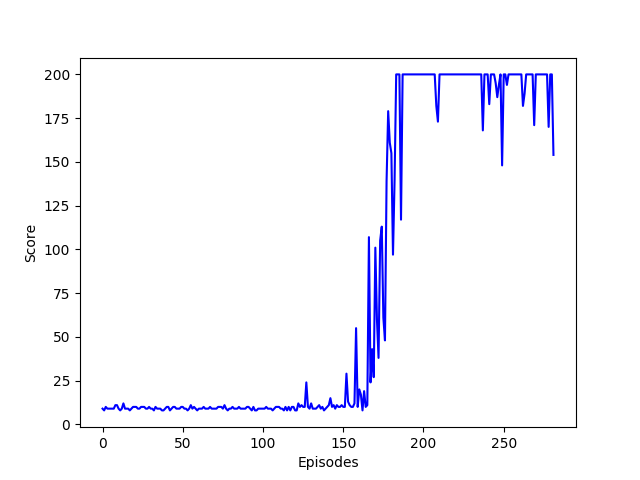
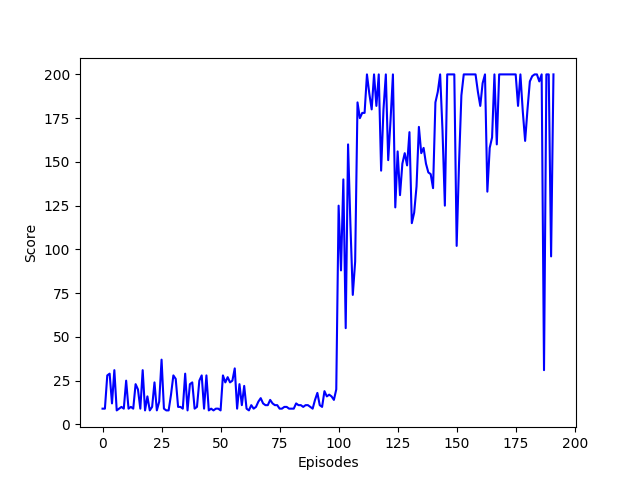
added configuration for hyperparameter search

diff --git a/Lab2/cartpole/cartpole_dqn.py b/Lab2/cartpole/cartpole_dqn.py
@@ -10,17 +10,25 @@ from keras.models import Sequential
 
 EPISODES = 1000 #Maximum number of episodes
 
+DEFAULT_TOPO = [16]
+TEST_TOPO = [
+    [16],
+    [32],
+    [64],
+             ]
+
 #DQN Agent for the Cartpole
 #Q function approximation with NN, experience replay, and target network
 class DQNAgent:
     #Constructor for the agent (invoked when DQN is first called in main)
-    def __init__(self, state_size, action_size):
-        self.check_solve = True	#If True, stop if you satisfy solution confition
+    def __init__(self, state_size, action_size, topo=DEFAULT_TOPO):
+        self.check_solve = False	#If True, stop if you satisfy solution confition
         self.render = False        #If you want to see Cartpole learning, then change to True
 
         #Get size of state and action
         self.state_size = state_size
         self.action_size = action_size
+        self.topo = topo
 
 
         # TODO Set hyper parameters for the DQN. Do not adjust those labeled as Fixed.
@@ -54,10 +62,15 @@ class DQNAgent:
         #Tip: Consult https://keras.io/getting-started/sequential-model-guide/
     def build_model(self):
         model = Sequential()
-        model.add(Dense(24, input_dim=self.state_size, activation='relu',
+        model.add(Dense(self.topo[0], input_dim=self.state_size, activation='relu',
                         kernel_initializer='he_uniform'))
-        model.add(Dense(16, activation='linear',
-                        kernel_initializer='he_uniform'))
+
+        if len(self.topo) > 1: # More hidden layers
+            for h_layer in self.topo[1:]:
+                model.add(Dense(h_layer, activation='linear',
+                                kernel_initializer='he_uniform'))
+
+
         model.add(Dense(self.action_size, activation='linear',
                         kernel_initializer='he_uniform'))
         model.summary()
@@ -137,6 +150,87 @@ class DQNAgent:
         pylab.ylabel("Score")
         pylab.savefig("scores.png")
 
+    def plot_score(self, episodes, scores, label=None):
+        pylab.figure('score')
+        pylab.plot(episodes, scores, label=label)
+        pylab.xlabel("Episodes")
+        pylab.ylabel("Score")
+
+
+    def plot_max_q_mean(self, episodes, max_q_mean, label=None):
+        pylab.figure('max_q')
+        pylab.plot(episodes, max_q_mean, label=label)
+        pylab.xlabel("Episodes")
+        pylab.ylabel("Average Q Value")
+
+
+
+    def save_max_q_mean(self):
+        pylab.figure('max_q')
+        pylab.legend()
+        pylab.savefig("max_q_network_search.png")
+
+
+    def save_score(self):
+        pylab.figure('score')
+        pylab.legend()
+        pylab.savefig("score_network_search.png")
+
+
+
+def runner():
+    for e in range(EPISODES):
+        done = False
+        score = 0
+        state = env.reset()  # Initialize/reset the environment
+        state = np.reshape(state, [1,
+                                   state_size])  # Reshape state so that to a 1 by state_size two-dimensional array ie. [x_1,x_2] to [[x_1,x_2]]
+        # Compute Q values for plotting
+        tmp = agent.model.predict(test_states)
+        max_q[e][:] = np.max(tmp, axis=1)
+        max_q_mean[e] = np.mean(max_q[e][:])
+
+        while not done:  # time step
+            if agent.render:
+                env.render()  # Show cartpole animation
+
+            # Get action for the current state and go one step in environment
+            action = agent.get_action(state)
+            next_state, reward, done, info = env.step(action)
+            next_state = np.reshape(next_state, [1, state_size])  # Reshape next_state similarly to state
+
+            # Save sample <s, a, r, s'> to the replay memory
+            agent.append_sample(state, action, reward, next_state, done)
+            # Training step
+            agent.train_model()
+            score += reward  # Store episodic reward
+            state = next_state  # Propagate state
+
+            if done:
+                # At the end of very episode, update the target network
+                if e % agent.target_update_frequency == 0:
+                    agent.update_target_model()
+                # Plot the play time for every episode
+                scores.append(score)
+                episodes.append(e)
+
+                print("episode:", e, "  score:", score, " q_value:", max_q_mean[e], "  memory length:",
+                      len(agent.memory))
+
+                # if the mean of scores of last 100 episodes is bigger than 195
+                # stop training
+                if agent.check_solve:
+                    if np.mean(scores[-min(100, len(scores)):]) >= 195:
+                        print("solved after", e - 100, "episodes")
+                        # agent.plot_data(episodes,scores,max_q_mean[:e+1])
+                        # sys.exit()
+                        agent.plot_score(episodes, scores, label=label)
+                        agent.plot_max_q_mean(episodes, max_q_mean[:e+1], label=label)
+                        return
+
+    agent.plot_score(episodes, scores, label = label )
+    agent.plot_max_q_mean(episodes, max_q_mean, label = label )
+
 if __name__ == "__main__":
     #For CartPole-v0, maximum episode length is 200
     env = gym.make('CartPole-v0') #Generate Cartpole-v0 environment object from the gym library
@@ -144,71 +238,36 @@ if __name__ == "__main__":
     state_size = env.observation_space.shape[0]
     action_size = env.action_space.n
 
-    #Create agent, see the DQNAgent __init__ method for details
-    agent = DQNAgent(state_size, action_size)
 
-    #Collect test states for plotting Q values using uniform random policy
-    test_states = np.zeros((agent.test_state_no, state_size))
-    max_q = np.zeros((EPISODES, agent.test_state_no))
-    max_q_mean = np.zeros((EPISODES,1))
+    for topo in TEST_TOPO:
+        label = 'x'.join([str(t) for t in topo])
+        print('current configuration', label)
+        # Create agent, see the DQNAgent __init__ method for details
+        agent = DQNAgent(state_size, action_size, topo)
 
-    done = True
-    for i in range(agent.test_state_no):
-        if done:
-            done = False
-            state = env.reset()
-            state = np.reshape(state, [1, state_size])
-            test_states[i] = state
-        else:
-            action = random.randrange(action_size)
-            next_state, reward, done, info = env.step(action)
-            next_state = np.reshape(next_state, [1, state_size])
-            test_states[i] = state
-            state = next_state
+        # Collect test states for plotting Q values using uniform random policy
+        test_states = np.zeros((agent.test_state_no, state_size))
+        max_q = np.zeros((EPISODES, agent.test_state_no))
+        max_q_mean = np.zeros((EPISODES,1))
 
-    scores, episodes = [], [] #Create dynamically growing score and episode counters
-    for e in range(EPISODES):
-        done = False
-        score = 0
-        state = env.reset() #Initialize/reset the environment
-        state = np.reshape(state, [1, state_size]) #Reshape state so that to a 1 by state_size two-dimensional array ie. [x_1,x_2] to [[x_1,x_2]]
-        #Compute Q values for plotting
-        tmp = agent.model.predict(test_states)
-        max_q[e][:] = np.max(tmp, axis=1)
-        max_q_mean[e] = np.mean(max_q[e][:])
-
-        while not done: # time step
-            if agent.render:
-                env.render() #Show cartpole animation
-
-            #Get action for the current state and go one step in environment
-            action = agent.get_action(state)
-            next_state, reward, done, info = env.step(action)
-            next_state = np.reshape(next_state, [1, state_size]) #Reshape next_state similarly to state
-
-            #Save sample <s, a, r, s'> to the replay memory
-            agent.append_sample(state, action, reward, next_state, done)
-            #Training step
-            agent.train_model()
-            score += reward #Store episodic reward
-            state = next_state #Propagate state
-
+        done = True
+        for i in range(agent.test_state_no):
             if done:
-                #At the end of very episode, update the target network
-                if e % agent.target_update_frequency == 0:
-                    agent.update_target_model()
-                #Plot the play time for every episode
-                scores.append(score)
-                episodes.append(e)
+                done = False
+                state = env.reset()
+                state = np.reshape(state, [1, state_size])
+                test_states[i] = state
+            else:
+                action = random.randrange(action_size)
+                next_state, reward, done, info = env.step(action)
+                next_state = np.reshape(next_state, [1, state_size])
+                test_states[i] = state
+                state = next_state
 
-                print("episode:", e, "  score:", score," q_value:", max_q_mean[e],"  memory length:",
-                      len(agent.memory))
+        scores, episodes = [], [] #Create dynamically growing score and episode counters
+        runner()
+        #agent.plot_data(episodes,scores,max_q_mean)
 
-                # if the mean of scores of last 100 episodes is bigger than 195
-                # stop training
-                if agent.check_solve:
-                    if np.mean(scores[-min(100, len(scores)):]) >= 195:
-                        print("solved after", e-100, "episodes")
-                        agent.plot_data(episodes,scores,max_q_mean[:e+1])
-                        sys.exit()
-    agent.plot_data(episodes,scores,max_q_mean)
+    agent.save_max_q_mean()
+    agent.save_score()
+    pylab.show()
